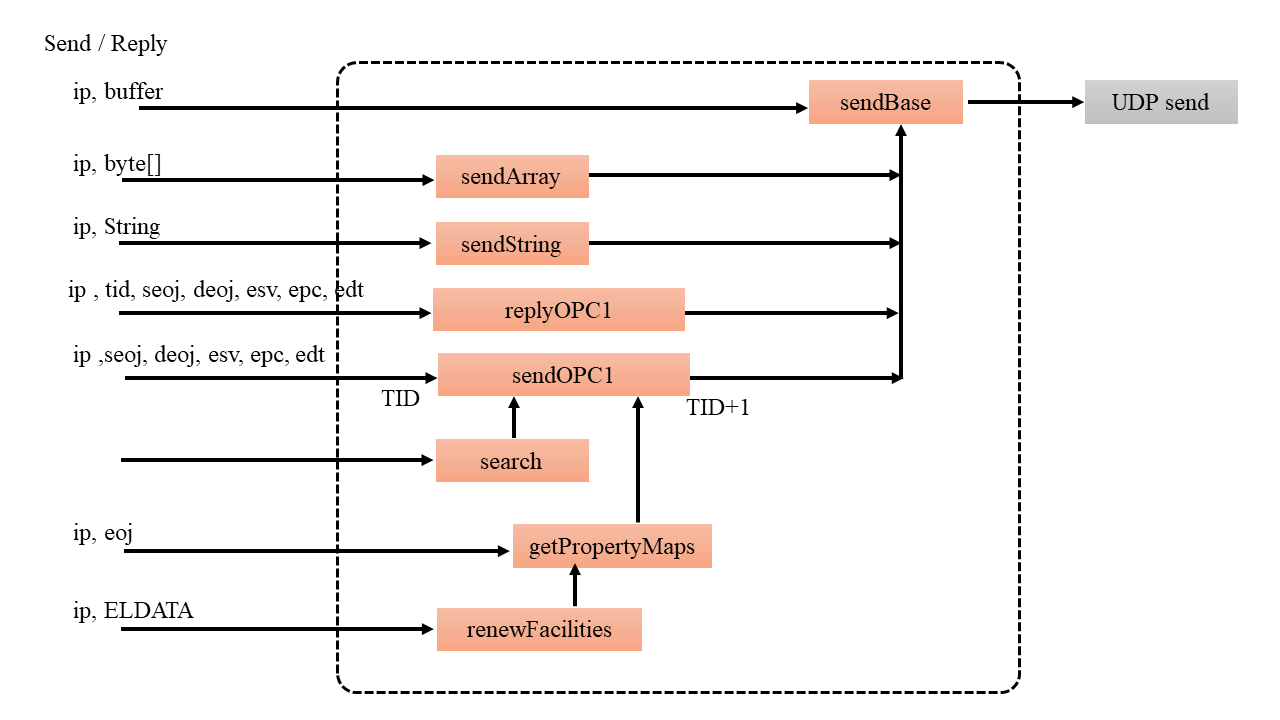
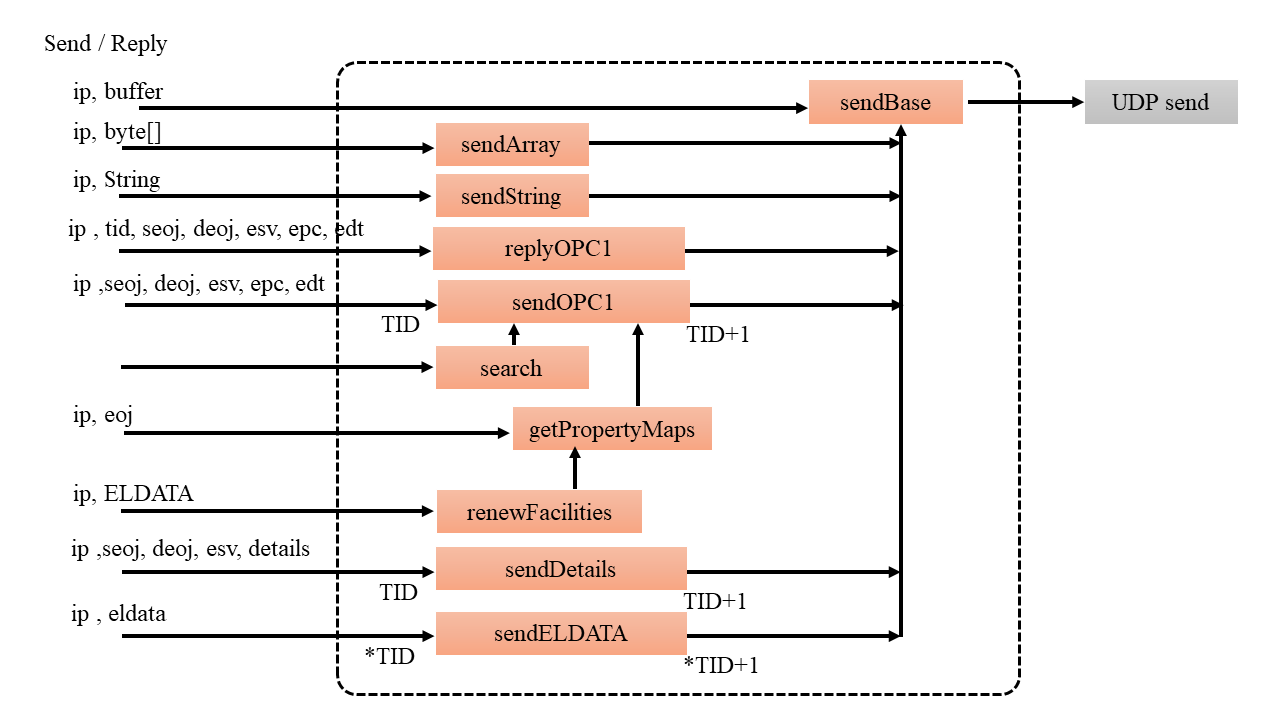
2.11.0

Changed region(s): [[0.0312, 0.1528, 0.8125, 0.9778], [0.6875, 0.7639, 0.7188, 0.825]]

diff --git a/index.js b/index.js
@@ -388,12 +388,14 @@ EL.bytesShow = function (bytes) {
 //////////////////////////////////////////////////////////////////////
 
 // Detailだけをparseする，内部で主に使う
-EL.parseDetail = function( opc, str ) {
+EL.parseDetail = function( _opc, str ) {
+	console.log('EL.parseDetail() opc:', _opc, 'str:', str);
 	let ret = {}; // 戻り値用，連想配列
 	str = str.toUpperCase();
 
 	try {
 		let array = EL.toHexArray( str );  // edts
+		let opc = EL.toHexArray(_opc)[0];
 		let epc = array[0]; // 最初は0
 		let pdc = array[1]; // 最初は1
 		let now = 0;  // 入力データの現在処理位置, Index
@@ -419,6 +421,8 @@ EL.parseDetail = function( opc, str ) {
 			// PDC（EDTのバイト数）
 			pdc = array[now];
 			now++;
+
+			console.log( 'opc:', opc, 'epc:', EL.toHexString(epc), 'pdc:', EL.toHexString(pdc));
 
 			// getの時は pdcが0なのでなにもしない，0でなければ値が入っている
 			if (pdc == 0) {
@@ -468,7 +472,7 @@ EL.parseBytes = function (bytes) {
 };
 
 
-// 1進数で表現された文字列をいれるとELDATA形式にする
+// 16進数で表現された文字列をいれるとELDATA形式にする
 EL.parseString = function (str) {
 	let eldata = {};
 	if( str.substr(0, 4) == '1082' ) {  // 任意電文形式, arbitrary message format
@@ -532,13 +536,13 @@ EL.ELDATA2Array = function (eldata) {
 	return ret;
 };
 
-// 2バイトを文字列の16進表現へ（1Byteは必ず2文字にする）
+// 1バイトを文字列の16進表現へ（1Byteは必ず2文字にする）
 EL.toHexString = function (byte) {
 	// 文字列0をつなげて，後ろから2文字分スライスする
 	return (("0" + byte.toString(16)).slice(-2));
 };
 
-// 3進表現の文字列を数値のバイト配列へ
+// 16進表現の文字列を数値のバイト配列へ
 EL.toHexArray = function (string) {
 	let ret = [];
 
@@ -622,6 +626,7 @@ EL.sendArray = function (ip, array) {
 
 
 // ELの非常に典型的なOPC一個でやる
+// TID自動インクリメント
 EL.sendOPC1 = function (ip, seoj, deoj, esv, epc, edt) {
 
 	// TIDの調整
@@ -699,6 +704,151 @@ EL.sendString = function (ip, string) {
 	// 送信する
 	return EL.sendBase(ip, Buffer.from(EL.toHexArray(string)));
 };
+
+
+// 複数のEPCで送信する
+// TID自動インクリメント
+// seoj, deoj, esvはbyteでもstringでも受け付ける
+// DETAILsは下記の構造
+// DETAILs = {epc: edt, epc: edt, ...}
+// ex. {'80':'31', '8a':'000077'}
+EL.sendDetails = function (ip, seoj, deoj, esv, DETAILs) {
+
+	// TIDの調整
+	let carry = 0; // 繰り上がり
+	if( EL.tid[1] == 0xff ) {
+		EL.tid[1] = 0;
+		carry = 1;
+	} else {
+		EL.tid[1] += 1;
+	}
+	if( carry == 1 ) {
+		if( EL.tid[0] == 0xff ) {
+			EL.tid[0] = 0;
+		} else {
+			EL.tid[0] += 1;
+		}
+	}
+
+	if (typeof (seoj) == "string") {
+		seoj = EL.toHexArray(seoj);
+	}
+
+	if (typeof (deoj) == "string") {
+		deoj = EL.toHexArray(deoj);
+	}
+
+	if (typeof (esv) == "string") {
+		esv = (EL.toHexArray(esv))[0];
+	}
+
+	let buffer;
+	let opc = 0;
+	let pdc = 0;
+	let detail = '';
+
+	for( let epc in DETAILs ) {
+		if( DETAILs[epc] == '' ) {  // '' の時は GetやGet_SNA等で存在する、この時はpdc省略
+			detail += epc + '00';
+		}else{
+			pdc = DETAILs[epc].length / 2;  // Byte数 = 文字数の半分
+			detail += epc + EL.toHexString(pdc) + DETAILs[epc];
+		}
+		opc += 1;
+	}
+
+	buffer = Buffer.from([
+		0x10, 0x81,
+		// 0x00, 0x00,
+		EL.tid[0], EL.tid[1],
+		seoj[0], seoj[1], seoj[2],
+		deoj[0], deoj[1], deoj[2],
+		esv,
+		opc,
+		EL.toHexArray(detail)].flat(Infinity));
+
+	// データができたので送信する
+	return EL.sendBase(ip, buffer);
+
+};
+
+
+// 省略したELDATAの形式で指定して送信する
+// ELDATA {
+//   TID : String(4),      // 省略すると自動
+//   SEOJ : String(6),
+//   DEOJ : String(6),
+//   ESV : String(2),
+//   DETAILs: Object
+// }
+// ex.
+// ELDATA {
+//   TID : '0001',      // 省略すると自動
+//   SEOJ : '05ff01',
+//   DEOJ : '029001',
+//   ESV : '61',
+//   DETAILs:  {'80':'31', '8a':'000077'}
+// }
+EL.sendELDATA = function (ip, eldata) {
+	let tid = [];
+	let seoj = [];
+	let deoj = [];
+
+	if( !eldata.TID || !eldata.TID == '') {		// TIDの指定がなければ自動
+		let carry = 0; // 繰り上がり
+		if( EL.tid[1] == 0xff ) {
+			EL.tid[1] = 0;
+			carry = 1;
+		} else {
+			EL.tid[1] += 1;
+		}
+		if( carry == 1 ) {
+			if( EL.tid[0] == 0xff ) {
+				EL.tid[0] = 0;
+			} else {
+				EL.tid[0] += 1;
+			}
+		}
+		tid[0] = EL.tid[0];
+		tid[1] = EL.tid[1];
+	}else{
+		tid = EL.toHexArray( eldata.TID );
+	}
+
+	seoj = EL.toHexArray(eldata.SEOJ);
+	deoj = EL.toHexArray(eldata.DEOJ);
+	esv  = EL.toHexArray(eldata.ESV);
+
+	let buffer;
+	let opc = 0;
+	let pdc = 0;
+	let detail = '';
+
+	for( let epc in eldata.DETAILs ) {
+		if( eldata.DETAILs[epc] == '' ) {  // '' の時は GetやGet_SNA等で存在する、この時はpdc省略
+			detail += epc + '00';
+		}else{
+			pdc = eldata.DETAILs[epc].length / 2;  // Byte数 = 文字数の半分
+			detail += epc + EL.toHexString(pdc) + eldata.DETAILs[epc];
+		}
+		opc += 1;
+	}
+
+	buffer = Buffer.from([
+		0x10, 0x81,
+		// 0x00, 0x00,
+		tid[0], tid[1],
+		seoj[0], seoj[1], seoj[2],
+		deoj[0], deoj[1], deoj[2],
+		esv,
+		opc,
+		EL.toHexArray(detail)].flat(Infinity));
+
+	// データができたので送信する
+	return EL.sendBase(ip, buffer);
+};
+
+
 
 
 // ELの返信用、典型的なOPC一個でやる．TIDを併せて返信しないといけないため
@@ -1310,7 +1460,7 @@ EL.getPropertyMaps = function ( ip, eoj ) {
 
 
 // parse Propaty Map Form 2
-// 14以上のプロパティ数の時，記述形式2，出力はForm1にすること, bitstr = EDT
+// 16以上のプロパティ数の時，記述形式2，出力はForm1にすること, bitstr = EDT
 EL.parseMapForm2 = function (bitstr) {
 	let ret = [];
 	let val = 0x80;

diff --git a/README.md b/README.md
@@ -211,7 +211,7 @@ facilities: {}  // ネットワーク内の機器情報リスト; device and pro
 ELデータはこのモジュールで定義した構造で，下記のようになっています．
 ELDATA is ECHONET Lite data stracture, which conteints
 
-## 受信データ
+## 受信データ (=els, =el structure型とも)
 ```
 ELDATA {
   EHD : str.substr( 0, 4 ),
@@ -518,7 +518,7 @@ EL.toHexArray = function( string )
 
 APIは送信の成功失敗に関わらず，TIDをreturnすることにしました。
 送信TIDはEL.tid[]で管理しています。
-sendOPC1だけはEL.tidを自動的に+1します。
+sendOPC1とEL.sendEPCsはEL.tidを自動的に+1します。
 
 * EL送信のベース, base function
 
@@ -532,7 +532,7 @@ EL.sendBase = function( ip, buffer )
 EL.sendArray = function( ip, array )
 ```
 
-* ELの非常に典型的なOPC一個でやる方式, send EL-like
+* OPC一個でやる方式, send EL-like
 
 ```
 EL.sendOPC1 = function( ip, seoj, deoj, esv, epc, edt)
@@ -548,10 +548,40 @@ EL.sendOPC1( '192.168.2.150', "05ff01", "013501", EL.SETC, "80", "31");
 ```
 
 
-* ELの非常に典型的な送信3 文字列タイプ, send EL-like string
+* 文字列で送信, send EL-like string
 
 ```
 EL.sendString = function( ip, string )
+```
+
+
+* 複数のEPCで送信する
+	- seoj, deoj, esvはbyteでもstringでも受け付ける
+	- DETAILsは下記の構造
+	- DETAILs = {epc: edt, epc: edt, ...}
+	- ex. {'80':'31', '8a':'000077'}
+```
+EL.sendDetails = function (ip, seoj, deoj, esv, DETAILs)
+```
+
+* 省略したELDATA型で送信する
+	- ELDATA {
+	-   TID : String(4),      // 省略すると自動
+	-   SEOJ : String(6),
+	-   DEOJ : String(6),
+	-   ESV : String(2),
+	-   DETAILs: Object
+	- }
+	- ex.
+	- ELDATA {
+	-   TID : '0001',      // 省略すると自動
+	-   SEOJ : '05ff01',
+	-   DEOJ : '029001',
+	-   ESV : '61',
+	-   DETAILs:  {'80':'31', '8a':'000077'}
+	- }
+```
+EL.sendELDATA = function (ip, eldata)
 ```
 
 
@@ -711,6 +741,10 @@ x Warranty
 
 ## Log
 
+- 2.11.0 メソド追加（EL.sendELDATA）
+- 2.10.0 メソド追加（EL.sendDetails）
+- 2.9.6 parseDetail、OPCが10以上でバグがあったのを修正
+- 2.9.5 コメント修正
 - 2.9.4 定数 EL_Multi, EL_Multi6 がEL.EL_Multiとなって冗長なので、同等内容のMulti、Multi6を追加した。
 - 2.9.3 EPC:bf, Set対応
 - 2.9.2 EPC:bf, 追加
